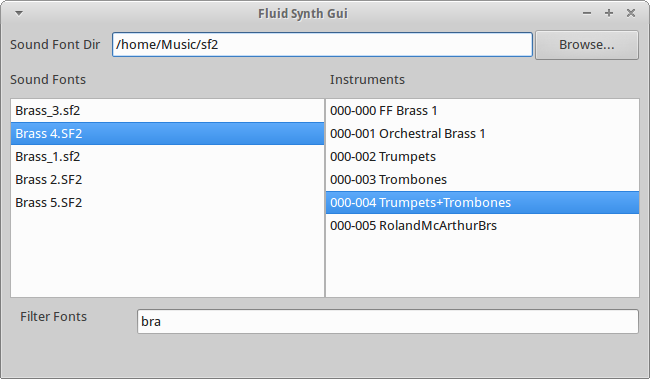
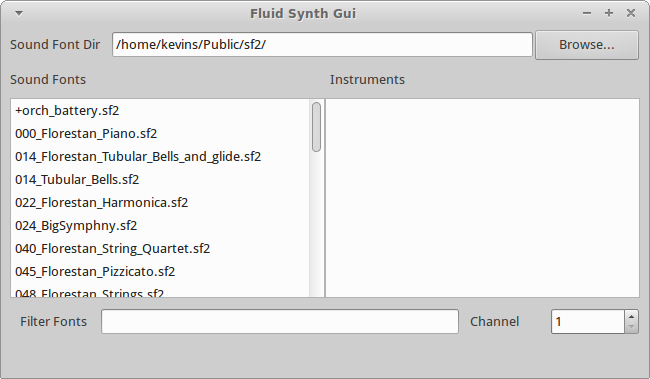
Add channel support (spinner).  Default is midi channel 1

diff --git a/fluidsynthgui.py b/fluidsynthgui.py
@@ -13,11 +13,15 @@
 #     1. select a folder that contains *.sf2 files
 #     2. Up/Down arrows will cycle through the soundfont files
 #     3. Left/Right arrows will cycle through the instruments in each file
-#     4. You can filter the sound fonts with the filter (bottom) 
+#     4. You can filter the sound fonts listed (search box at bottom) 
+#     5. Optional: you can set the midi channel you want to use (default = 1) 
 #
 # Command line options:
-#     1. fluidsynth_cmd1 | fluidsynth_cmd2	
-#     2. path_to_sf2_dir
+#     1. cmd1|cmd2                pipe-delimited fluidsynth commands (can be "")
+#     2. path_to_sf2_dir          the default path to your sound fonds 
+#
+#     For example:
+#         python  fluidsynthgui.py  "gain 5"  /home/Music/Public/sf2/
 #
 # System Requirements
 #	jack/QjackCtl	
@@ -52,7 +56,7 @@ class FluidSynthApi:
 		# start fluidsynth process
 		print "Init fluidsynth..."
 		self.fluidsynth = subprocess.Popen(['fluidsynth'], shell=False, stdin=subprocess.PIPE, stdout=subprocess.PIPE)
-		self.activeChannel = 0
+		self.activeChannel = 1 # base 1
 		self.activeSoundFont = -1
 		self.debug = True
 
@@ -184,9 +188,11 @@ class FluidSynthApi:
 		try:
 			parts = id.split()
 			ids = parts[0].split('-')			
+			chan=str(self.activeChannel-1) # base 0
+			font=str(self.activeSoundFont)
 			bank=ids[0]
 			prog=ids[1]
-			cmd = 'select '+str(self.activeChannel)+' '+str(self.activeSoundFont)+' '+bank+' '+prog
+			cmd = 'select '+chan+' '+font+' '+bank+' '+prog
 			data = self.cmd(cmd)
 			return data
 		except:
@@ -258,18 +264,18 @@ class FluidSynthGui(wx.Frame):
 			self.textSoundFontDir.SetValue(self.dir)
 			self.refreshSoundFonts()
 
-
 	def initUI(self):
 
 		# user interface 	
 
-		# ui vars 
+		# ui components 
 		panel = wx.Panel(self)
 		self.textSoundFontDir = wx.TextCtrl(panel)
 		self.btnSfDir = wx.Button(panel, label="Browse...")
 		self.textfilterSoundFont = wx.TextCtrl(panel)
-		self.listSf = wx.ListBox(panel, choices=self.soundFonts, size=(-1,200))  
-		self.listInst = wx.ListBox(panel, choices=self.instruments, size=(-1,200))  
+		self.listSf = wx.ListBox(panel, choices=self.soundFonts, size=(-1,200))
+		self.listInst = wx.ListBox(panel,choices=self.instruments,size=(-1,200))  
+		self.spinChannel = wx.SpinCtrl(panel,min=1,max=16,initial=1)
 
 		# start layout 
 		vbox = wx.BoxSizer(wx.VERTICAL)
@@ -295,25 +301,24 @@ class FluidSynthGui(wx.Frame):
 
 		vbox.Add(row, flag=wx.EXPAND|wx.ALL, border=5)
 
-		# row3
+		# row4
 		row = wx.BoxSizer(wx.HORIZONTAL)
-		row.Add(wx.StaticText(panel, label='Filter Fonts'),flag=wx.LEFT, border=10, proportion=1)
-		row.Add(self.textfilterSoundFont,proportion=4)
+		row.Add(wx.StaticText(panel, label='Filter Fonts'),flag=wx.ALIGN_CENTER_VERTICAL|wx.LEFT, border=10, proportion=1)
+		row.Add(self.textfilterSoundFont,flag=wx.ALIGN_CENTER_VERTICAL,proportion=4)
+		row.Add(wx.StaticText(panel, label='Channel'),flag=wx.ALIGN_CENTER_VERTICAL|wx.LEFT, border=10, proportion=1)
+		row.Add(self.spinChannel,flag=wx.ALIGN_CENTER_VERTICAL,proportion=1)
 
 		vbox.Add(row, flag=wx.EXPAND|wx.ALL, border=5)
 
 		# event binding
 
 		self.btnSfDir.Bind(wx.EVT_BUTTON, self.clickButtonBrowse, self.btnSfDir)
-        	self.textSoundFontDir.Bind(wx.wx.EVT_KEY_UP, self.keyUpDirectory, self.textSoundFontDir)
-
-        	self.listSf.Bind(wx.EVT_LISTBOX, self.selectSoundFont, self.listSf)
-        	self.listSf.Bind(wx.wx.EVT_KEY_DOWN, self.keyDownSoundFont, self.listSf)
-
-        	self.listInst.Bind(wx.EVT_LISTBOX, self.selectInstrument,self.listInst)
-
-        	self.textfilterSoundFont.Bind(wx.wx.EVT_KEY_UP, self.keyUpFilterSoundFont,self.textfilterSoundFont)
-
+		self.textSoundFontDir.Bind(wx.wx.EVT_KEY_UP, self.keyUpDirectory, self.textSoundFontDir)
+		self.listSf.Bind(wx.EVT_LISTBOX, self.selectSoundFont, self.listSf)
+		self.listSf.Bind(wx.wx.EVT_KEY_DOWN, self.keyDownSoundFont, self.listSf)
+		self.listInst.Bind(wx.EVT_LISTBOX, self.selectInstrument,self.listInst)
+		self.textfilterSoundFont.Bind(wx.wx.EVT_KEY_UP, self.keyUpFilterSoundFont,self.textfilterSoundFont)
+		self.spinChannel.Bind(wx.EVT_SPINCTRL,self.clickChannel,self.spinChannel)
 
 		# pack
 		panel.SetSizer(vbox)
@@ -343,16 +348,6 @@ class FluidSynthGui(wx.Frame):
 
 		dlg.Destroy()
 		
-
-	# filters
-	def keyUpFilterSoundFont(self,event):
-		event.Skip()
-		self.refreshSoundFonts(True)
-
-	def keyUpfilterInstrumentsrument(self,event):
-		event.Skip()
-		self.instrumentsIdx = 0
-		self.refreshInstruments()
 
 	# sound soundfont change
 	def selectSoundFont(self, event):
@@ -398,6 +393,16 @@ class FluidSynthGui(wx.Frame):
 		if ( id >= size ):
 			id = size - 1
 		return id
+
+	# filters
+	def keyUpFilterSoundFont(self,event):
+		event.Skip()
+		self.refreshSoundFonts(True)
+
+	# channel
+	def clickChannel(self,event):
+		chan=self.spinChannel.GetValue()
+		self.fluidsynth.activeChannel = chan	
 
 	# api 
 	def grep(self, pattern, word_list):
